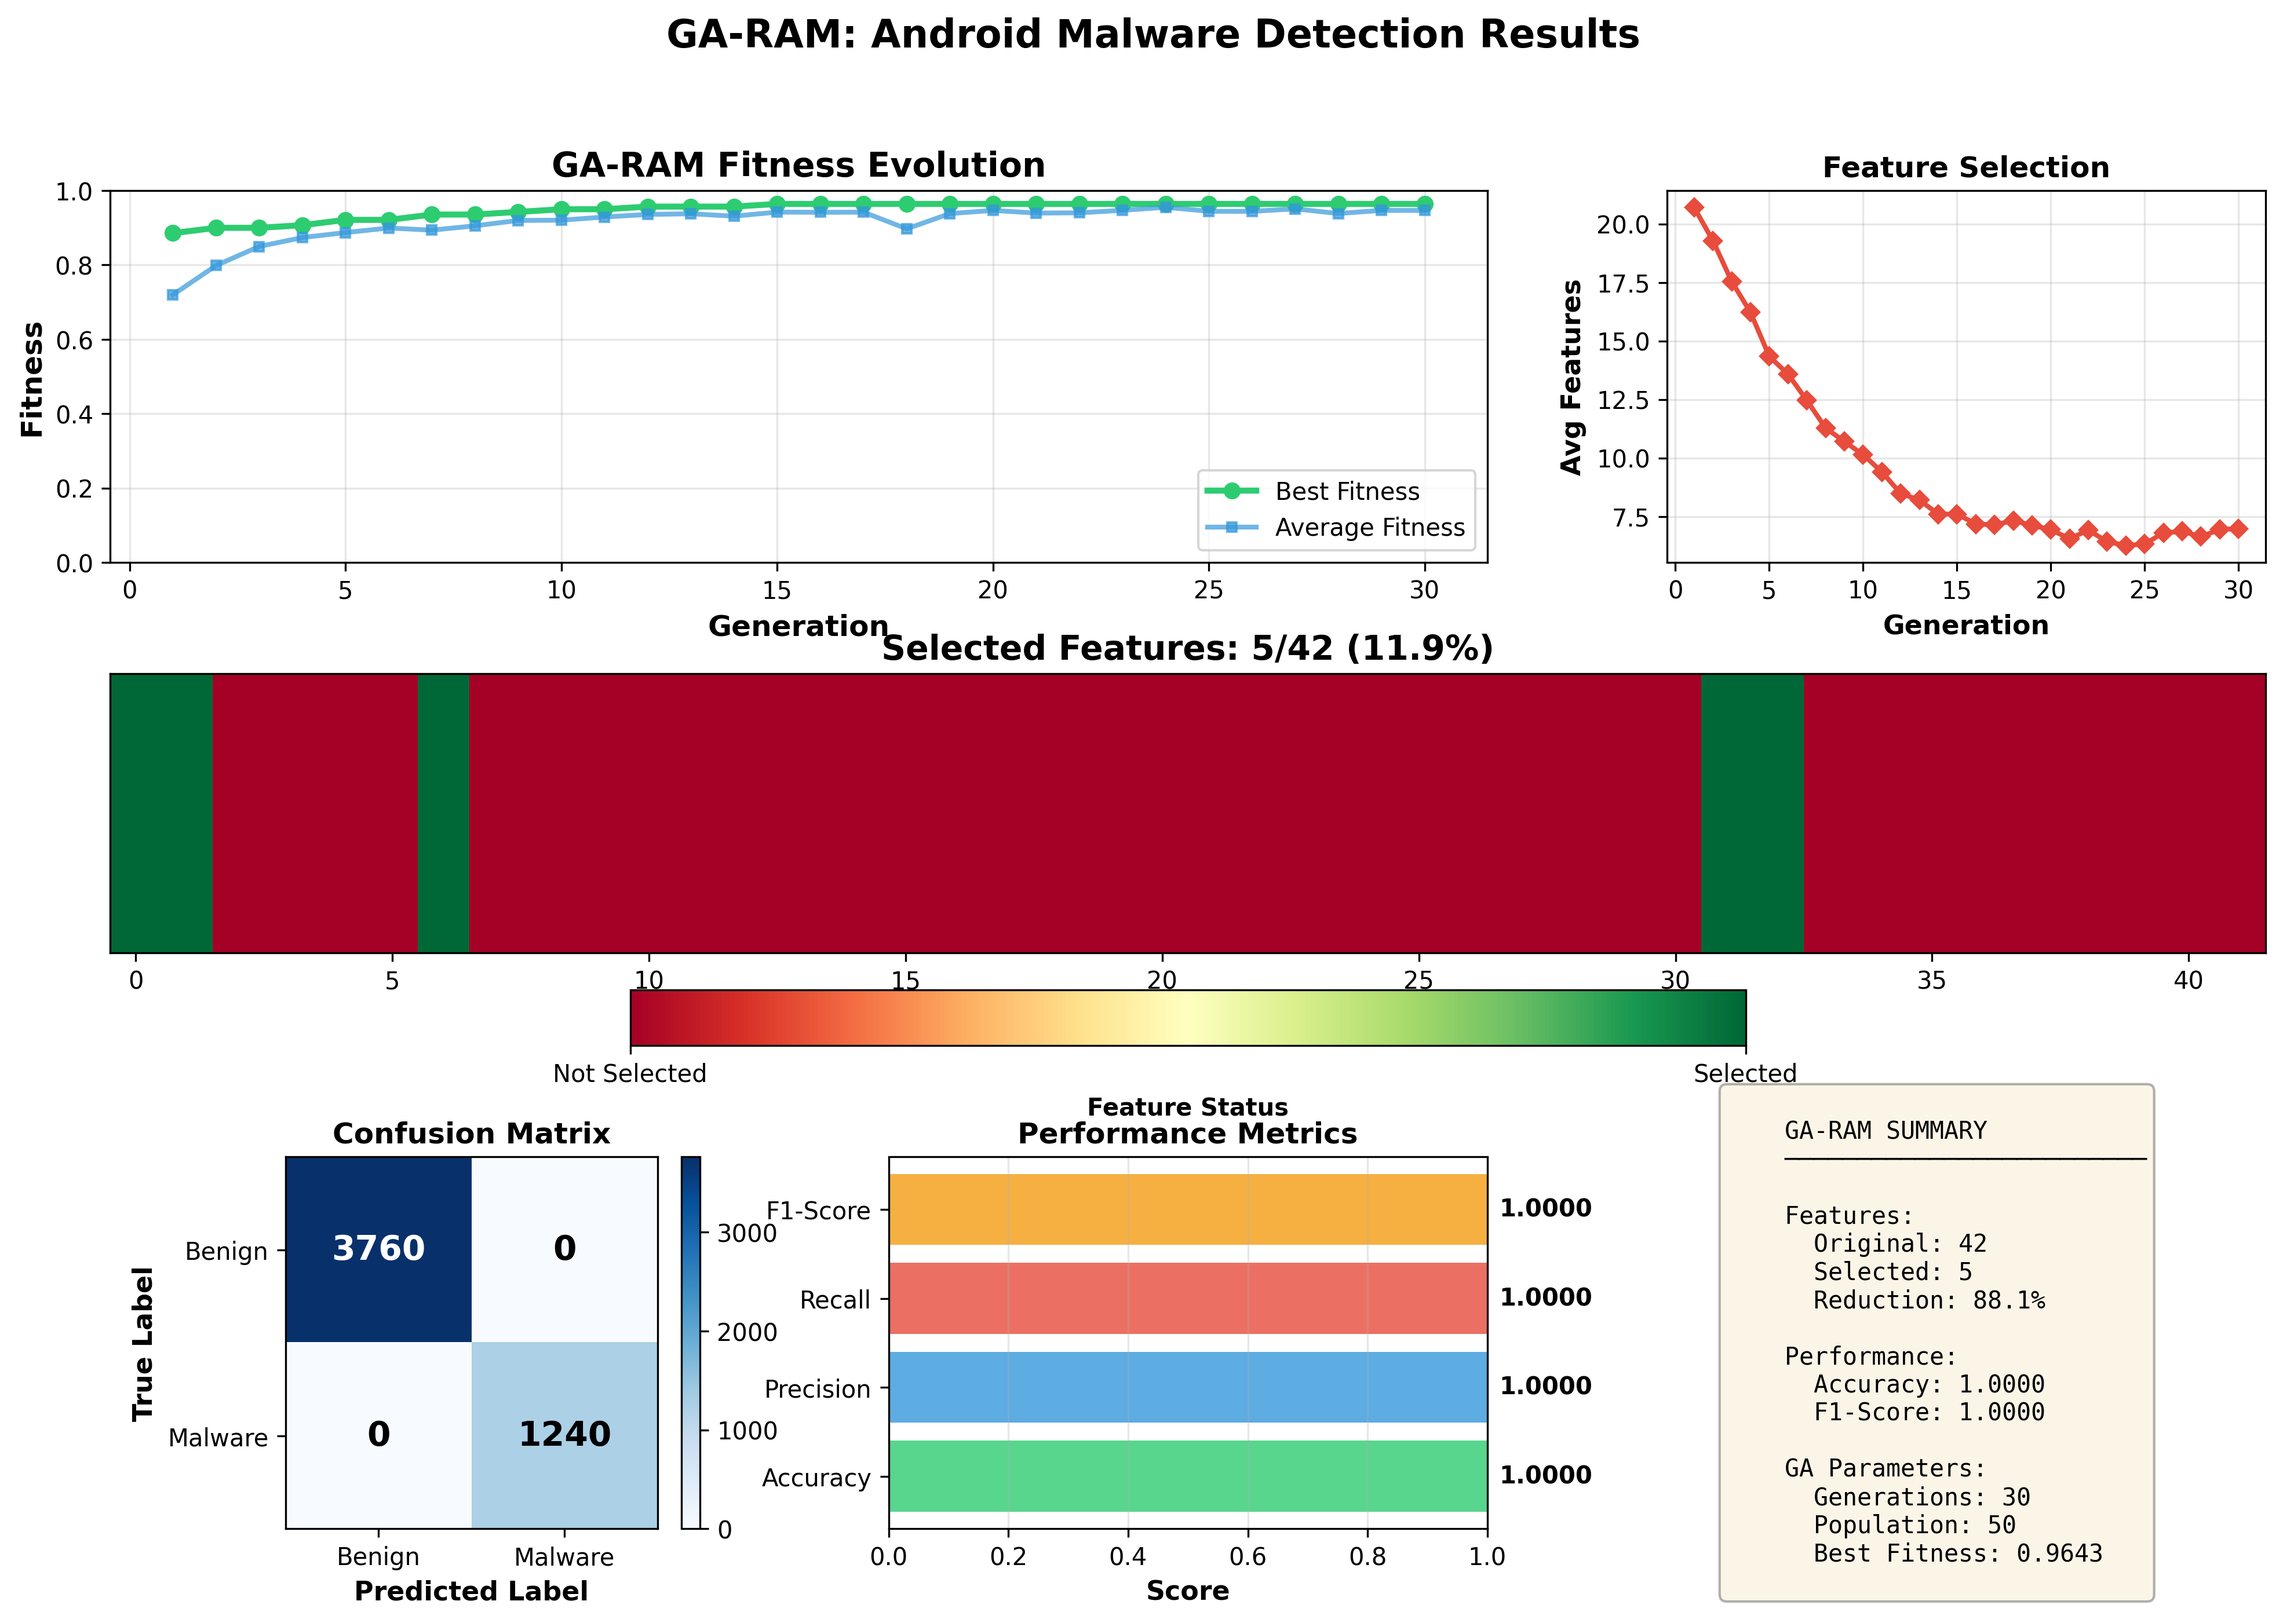
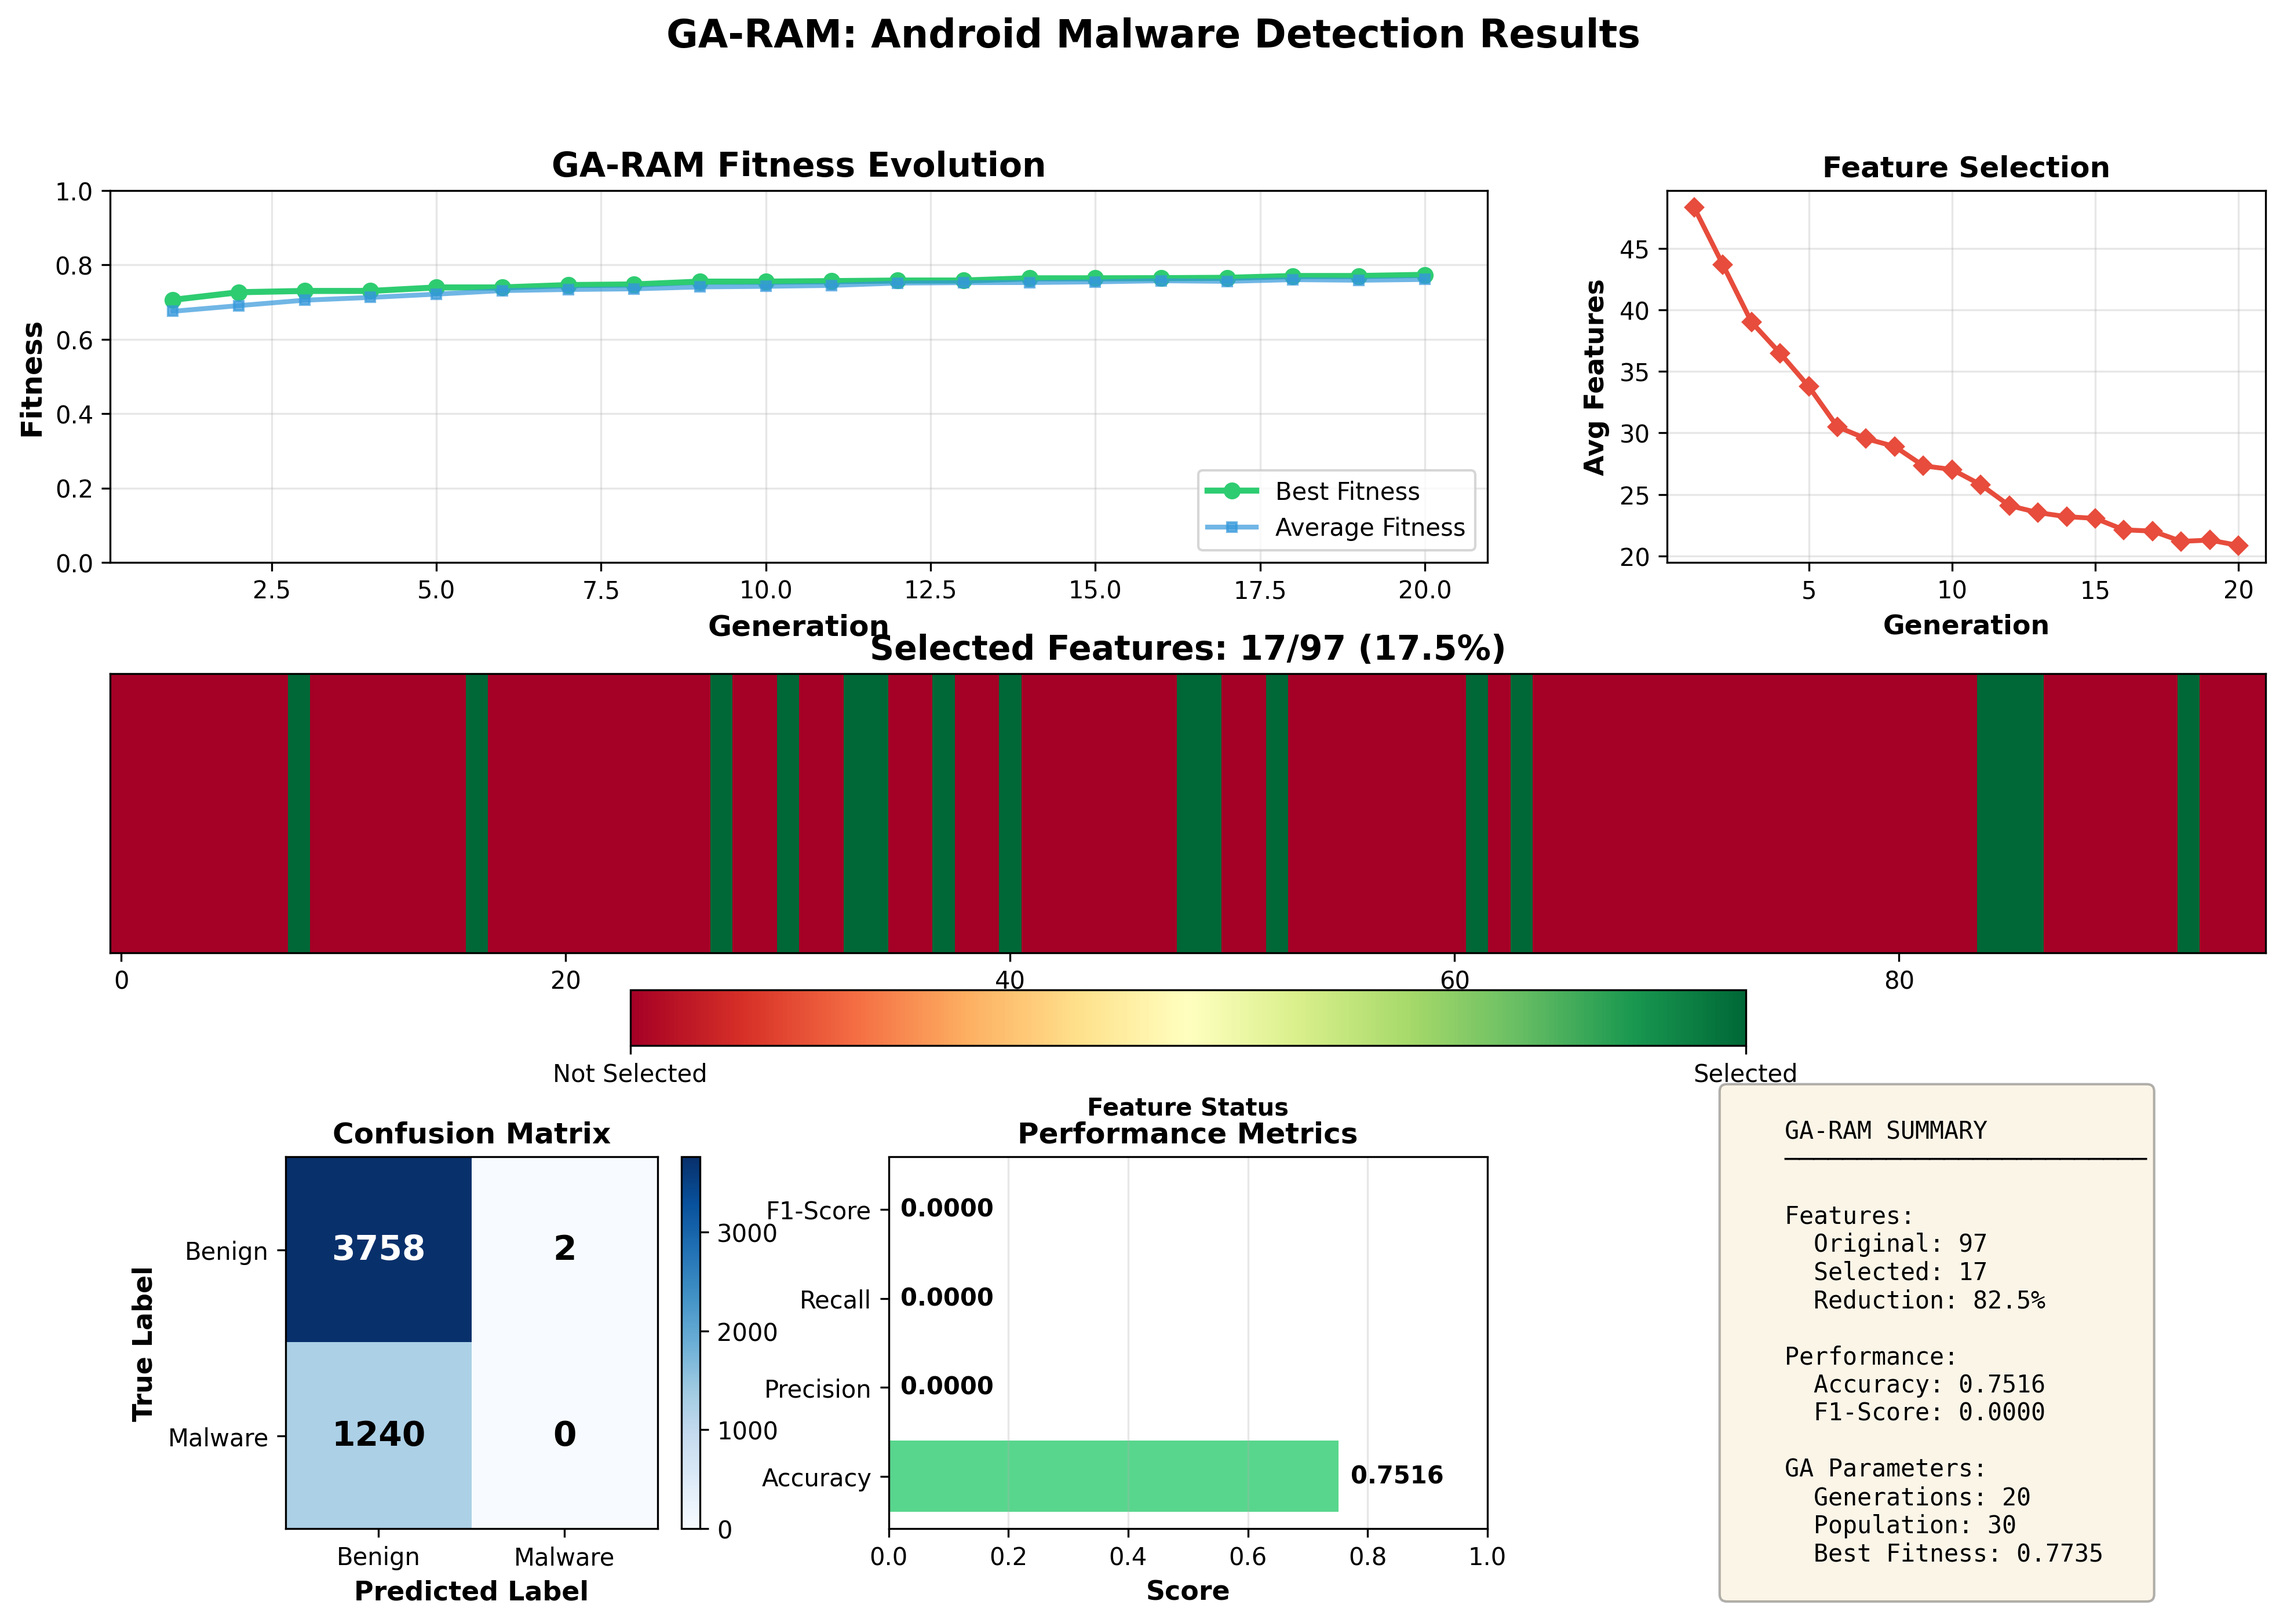
modified GA_RAM.py

diff --git a/GA_RAM.py b/GA_RAM.py
@@ -18,6 +18,7 @@ from sklearn.ensemble import RandomForestClassifier
 from sklearn.metrics import (accuracy_score, precision_score, recall_score, 
                              f1_score, classification_report, confusion_matrix)
 import warnings
+import time
 warnings.filterwarnings('ignore')
 
 
@@ -66,7 +67,7 @@ class GARAMChromosome:
         # No crossover occurred, return parents
         return self, other
     
-    def mutate_ram(self, population_size, base_rate=0.01, alpha=2.0):
+    def mutate_ram(self, population_size, base_rate=0.01, alpha=2.0, effective_rank=None):
         """
         RANK-BASED ADAPTIVE MUTATION (RAM)
         
@@ -80,9 +81,15 @@ class GARAMChromosome:
             population_size: Size of population (for normalization)
             base_rate: Base mutation probability
             alpha: Adaptation strength (higher = more aggressive adaptation)
+            effective_rank: Rank value to use for mutation (if None, uses self.rank)
         """
+        # If no explicit rank is provided (e.g., for existing population),
+        # fall back to the chromosome's own rank.
+        if effective_rank is None:
+            effective_rank = self.rank
+
         # Normalize rank: 0 (worst) to 1 (best)
-        normalized_rank = self.rank / population_size
+        normalized_rank = effective_rank / population_size
         
         # Calculate adaptive mutation rate
         # High rank (good) → low mutation
@@ -105,7 +112,8 @@ class GARAMChromosome:
 # 2. FITNESS FUNCTION
 # ============================================================================
 
-def calculate_fitness_ram(chromosome, X_train, y_train, X_val, y_val):
+def calculate_fitness_ram(chromosome, X_train, y_train, X_val, y_val, 
+                          fast_mode=True, sample_size=5000, sample_indices=None):
     """
     Calculate fitness for GA-RAM
     
@@ -114,6 +122,13 @@ def calculate_fitness_ram(chromosome, X_train, y_train, X_val, y_val):
     Components:
     1. Accuracy: Classification performance on validation set
     2. Feature Reduction: Penalty for using too many features
+    
+    Args:
+        fast_mode: If True, use fewer estimators and sample data for faster evaluation
+        sample_size: Number of samples to use for training in fast_mode
+        sample_indices: Optional precomputed indices for training subset. When
+                        provided, ALL chromosomes in a generation share the
+                        same subset, ensuring fair fitness comparison.
     
     Returns: fitness score between 0 and 1
     """
@@ -128,17 +143,37 @@ def calculate_fitness_ram(chromosome, X_train, y_train, X_val, y_val):
         X_train_selected = X_train[:, selected_features]
         X_val_selected = X_val[:, selected_features]
         
-        # Train Random Forest classifier
+        # For faster evaluation, use a shared sample of training data.
+        # To keep fitness comparable across chromosomes within the same
+        # generation, sampling indices should be precomputed once per
+        # generation and passed via `sample_indices`.
+        if fast_mode and sample_indices is not None:
+            X_train_subset = X_train_selected[sample_indices]
+            y_train_subset = y_train[sample_indices]
+        elif fast_mode and len(y_train) > sample_size:
+            # Fallback path if no indices are provided; this should normally
+            # not be used by the GA loop, but keeps the function robust.
+            indices = np.random.choice(len(y_train), sample_size, replace=False)
+            X_train_subset = X_train_selected[indices]
+            y_train_subset = y_train[indices]
+        else:
+            X_train_subset = X_train_selected
+            y_train_subset = y_train
+        
+        # Train Random Forest classifier with optimized parameters for speed
+        n_estimators = 20 if fast_mode else 100  # Fewer trees for faster evaluation
+        max_depth = 10 if fast_mode else 15
+        
         rf = RandomForestClassifier(
-            n_estimators=100,
-            max_depth=15,
+            n_estimators=n_estimators,
+            max_depth=max_depth,
             random_state=42,
             n_jobs=-1,
             min_samples_split=5,
             min_samples_leaf=2
         )
         
-        rf.fit(X_train_selected, y_train)
+        rf.fit(X_train_subset, y_train_subset)
         
         # Evaluate on validation set
         y_pred = rf.predict(X_val_selected)
@@ -205,14 +240,28 @@ class GARAM:
                           for _ in range(self.population_size)]
         print(f"✓ Initialized population of {self.population_size} chromosomes")
     
-    def evaluate_population(self, X_train, y_train, X_val, y_val):
+    def evaluate_population(self, X_train, y_train, X_val, y_val, 
+                            fast_mode=True, sample_size=5000):
         """
         Evaluate fitness for all chromosomes
-        Updates best chromosome if better solution found
+        Updates best chromosome if better solution found.
+
+        To ensure fair comparison across chromosomes in the SAME generation
+        when `fast_mode=True`, we precompute a single subset of training
+        indices and reuse it for every chromosome.
         """
-        for chromosome in self.population:
+        # Precompute a shared subset of training indices (if using fast mode)
+        if fast_mode and len(y_train) > sample_size:
+            sample_indices = np.random.choice(len(y_train), sample_size, replace=False)
+        else:
+            sample_indices = None
+
+        for idx, chromosome in enumerate(self.population):
             chromosome.fitness = calculate_fitness_ram(
-                chromosome, X_train, y_train, X_val, y_val
+                chromosome, X_train, y_train, X_val, y_val,
+                fast_mode=fast_mode,
+                sample_size=sample_size,
+                sample_indices=sample_indices,
             )
             
             # Track best chromosome across all generations
@@ -221,6 +270,10 @@ class GARAM:
                 self.best_chromosome = GARAMChromosome(self.n_features)
                 self.best_chromosome.genes = chromosome.genes.copy()
                 self.best_chromosome.fitness = chromosome.fitness
+            
+            # Progress indicator
+            if (idx + 1) % 10 == 0:
+                print(f"  Evaluated {idx + 1}/{len(self.population)} chromosomes...", end='\r')
     
     def rank_population(self):
         """
@@ -265,18 +318,31 @@ class GARAM:
         print(f"Base Mutation Rate: {self.base_mutation_rate}")
         print(f"Alpha (Adaptation): {self.alpha}")
         print(f"Tournament Size: {self.tournament_size}")
+        print(f"\n⚡ OPTIMIZATION MODE: Fast evaluation enabled")
+        print(f"   - Using 20 trees (instead of 100) for fitness evaluation")
+        print(f"   - Sampling 5,000 training samples per evaluation")
+        print(f"   - Final classifier will use full parameters")
         
         # Initialize population
         self.initialize_population()
         
         # Evolution loop
+        generation_start_time = time.time()
         for generation in range(self.n_generations):
+            gen_start = time.time()
             print(f"\n{'─'*70}")
             print(f"🔄 Generation {generation + 1}/{self.n_generations}")
             print(f"{'─'*70}")
             
-            # Step 1: Evaluate fitness
-            self.evaluate_population(X_train, y_train, X_val, y_val)
+            # Step 1: Evaluate fitness (use fast_mode=True for faster evaluation)
+            # NOTE: evaluate_population ensures that all chromosomes in this
+            # generation share the SAME training subset when fast_mode=True.
+            self.evaluate_population(
+                X_train, y_train, X_val, y_val,
+                fast_mode=True,
+                sample_size=5000,
+            )
+            print()  # New line after progress indicator
             
             # Step 2: Rank population (for adaptive mutation)
             self.rank_population()
@@ -316,19 +382,35 @@ class GARAM:
                 child1, child2 = parent1.crossover(parent2, crossover_rate=0.8)
                 
                 # Rank-based Adaptive Mutation
-                child1.mutate_ram(self.population_size, 
-                                 self.base_mutation_rate, 
-                                 self.alpha)
-                child2.mutate_ram(self.population_size, 
-                                 self.base_mutation_rate, 
-                                 self.alpha)
+                # Newborn children do not yet have meaningful ranks. To make
+                # RAM effective immediately, we derive an "effective rank"
+                # for each child from its parents (use the average rank).
+                parent_avg_rank = (parent1.rank + parent2.rank) / 2.0
+
+                child1.mutate_ram(
+                    self.population_size,
+                    self.base_mutation_rate,
+                    self.alpha,
+                    effective_rank=parent_avg_rank,
+                )
+                child2.mutate_ram(
+                    self.population_size,
+                    self.base_mutation_rate,
+                    self.alpha,
+                    effective_rank=parent_avg_rank,
+                )
                 
                 new_population.extend([child1, child2])
                 offspring_count += 2
             
             # Update population
             self.population = new_population[:self.population_size]
+            gen_time = time.time() - gen_start
+            elapsed_total = time.time() - generation_start_time
+            avg_time_per_gen = elapsed_total / (generation + 1)
+            estimated_remaining = avg_time_per_gen * (self.n_generations - generation - 1)
             print(f"✓ Preserved {elite_size} elite | Generated {offspring_count} offspring")
+            print(f"⏱  Generation time: {gen_time:.1f}s | Est. remaining: {estimated_remaining/60:.1f} min")
         
         # Final summary
         print("\n" + "="*70)
@@ -426,10 +508,11 @@ def run_garam_pipeline(X_train, y_train, X_val, y_val, X_test, y_test):
     print("📍 PHASE 1: GA-RAM FEATURE SELECTION")
     print("="*70)
     
+    # Optimized parameters for faster execution with larger dataset
     garam = GARAM(
         n_features=n_features,
-        population_size=50,
-        n_generations=30,
+        population_size=30,  # Reduced from 50 for faster execution
+        n_generations=20,   # Reduced from 30 for faster execution
         base_mutation_rate=0.01,
         alpha=2.0,
         tournament_size=3
@@ -680,18 +763,22 @@ if __name__ == "__main__":
     print("="*70)
     
     # Load data
-
     print("\n📁 Loading data...")
-    data_path = Path(__file__).resolve().parent / 'data' / 'XY_final_dataset.csv'
+    data_path = Path(__file__).resolve().parent / 'data' / 'data_sample_25k.csv'
+    labels_path = Path(__file__).resolve().parent / 'data' / 'y_labels.csv'
+    
     if not data_path.exists():
         raise FileNotFoundError(f"Data file not found: {data_path}")
-    df = pd.read_csv(str(data_path))
-
-
+    if not labels_path.exists():
+        raise FileNotFoundError(f"Labels file not found: {labels_path}")
     
-    # Separate features and labels
-    X = df.iloc[:, :-1].values
-    y = df.iloc[:, -1].values
+    df = pd.read_csv(str(data_path))
+    df_labels = pd.read_csv(str(labels_path))
+    
+    # Skip first 3 columns (SHA256, NOME, PACOTE) - these are metadata
+    # Use columns 3 onwards as features
+    X = df.iloc[:, 3:].values
+    y = df_labels.iloc[:, 0].values
     
     # Labels are already 0 (benign) and 1 (malware) - no conversion needed
     
